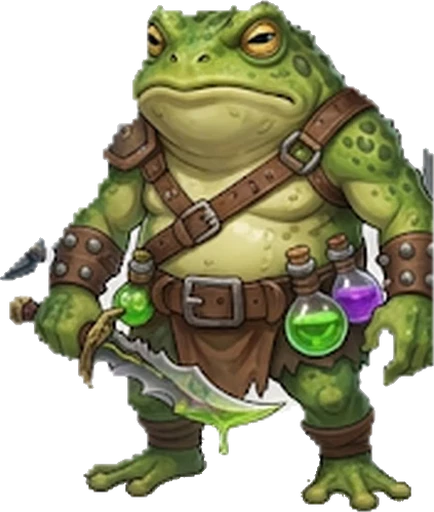
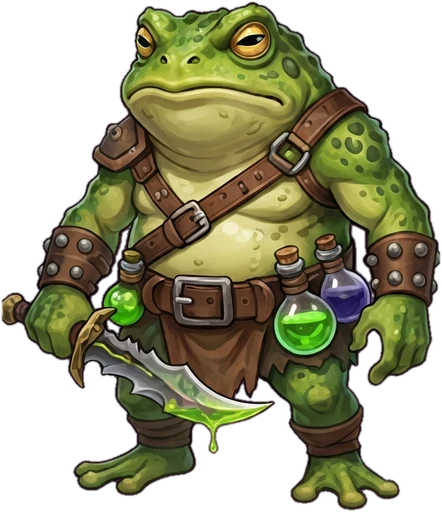
Canh 6 bo x 5 bac, ve lai 11 quai bi cat, thu linh cap 15, choang, hieu ung skill nho

diff --git a/game.js b/game.js
@@ -163,6 +163,7 @@ const SKILL_2 = { hoa: 'whirl', bang: 'guard', loi: 'whirl', doc: 'leech', tho: 
 ].forEach(([id, n, e, ps, boss], i) => MONSTERS.push({ id, n, e, ps, boss: !!boss, sk: [[SKILL_OF[e], boss ? 20 : 14 + (i % 4) * 2], [SKILL_2[e], boss ? 12 : 7]] }));
 // Hướng vẽ sẵn của từng ảnh quái (đã soát bằng mắt): các ảnh quay TRÁI -> lật để luôn nhìn về nhân vật bên trái
 const NATIVE_LEFT = new Set([
+  'dau-si-gau', 'quy-sam', 'long-nhan-bang', 'pharaoh', 'oni-samurai', 'ky-si-su-ung', 'nguoi-tuyet', // 9 quái vẽ lại cho đủ hình 2026-11-26 đều quay trái (cùng bo-xuong, bong-ma-ky-si, coc-doc, ma-vuong, nu-hoang-naga)
   'bo-xuong', 'bong-ma-ky-si', 'coc-doc', 'cua-hiep-si', 'goblin-cuop', 'khong-lo-bang',
   'ky-si-co-khi', 'ky-si-su-ung', 'lanh-chua', 'long-ky-si', 'ma-vuong', 'nam-khong-lo',
   'nguoi-cay', 'nguoi-soi', 'nguu-ma', 'nhen-yeu-tinh', 'ninja-bong-toi', 'nu-hoang-naga',
@@ -399,6 +400,7 @@ function lookFromGear(gear, banner, boss, outfit) {
   };
   L0.body = BODY_SPR[gear.armor ? Math.min(gear.armor.rar, 6) : 0];
   L0.wk = gear.weapon ? gear.weapon.wk : null; L0.wR = gear.weapon ? gear.weapon.rar : 0; L0.wFire = !!(gear.weapon && gear.weapon.perk === 'fire');
+  L0.wing = (typeof S !== 'undefined' && S && gear === S.gear && typeof curWing === 'function') ? curWing() : null; // cánh sau lưng (chỉ nhân vật của người chơi)
   L0.sh = gear.shield ? pickTier(SHIELD_SPR, Math.min(gear.shield.rar, 7)) : null; L0.sR = gear.shield ? gear.shield.rar : 0;
   L0.layered = true;
   L0.paper = { dau: gear.helmet, vai: gear.shoulder, giap: gear.armor, quan: gear.pants, gang: gear.gloves, giay: gear.boots };
@@ -578,7 +580,7 @@ function drawPaper(ctx, x, y, sc, L, facing, pose) {
     ctx.restore();
   }
   const arm = pose.arm != null ? pose.arm : 0.6;
-  const lean = arm < 0.6 ? (arm - 0.6) / 2.7 * 0.16 : (arm - 0.6) / 0.7 * 0.2;
+  const lean = arm < 0.6 ? (arm - 0.6) / 2.7 * 0.05 : (arm - 0.6) / 0.7 * 0.06; // nghiêng rất nhẹ, không đổ người về trước
   const breathe = 1 + Math.sin(t * 2.4 + x) * 0.018, hop = pose.walk ? Math.abs(Math.sin(pose.walk)) * 6 * sc : 0;
   ctx.scale(facing, 1); ctx.translate(0, -hop); ctx.rotate(lean - dead * 1.35); ctx.translate(-dead * 18, 0);
   ctx.scale(1 + (breathe - 1) * -0.5, breathe); ctx.globalAlpha = 1 - dead * 0.35;
@@ -588,6 +590,7 @@ function drawPaper(ctx, x, y, sc, L, facing, pose) {
   const [pc, px, PW, PH] = scratch('paper' + (pose.key || ''), Wc, Hc);
   for (const v of ['giay', 'quan', 'giap', 'gang', 'vai', 'dau']) { const id = lopId(v, P[v]); if (id) px.drawImage(SPR[id], 4, 4, PW - 8, PH - 8); }
   flashScratch(px, PW, PH, (pose.flash || 0) * 0.7);
+  if (L.wing && typeof drawWings === 'function' && dead < 1) drawWings(ctx, L.wing, ox + Wc * (LOPM.cx || 0.5), oy + Hc * (LOPM.figTop + 0.42 * (LOPM.feet - LOPM.figTop)), Hc, t); // cánh vẽ sau lưng, tâm cánh = giữa lưng
   if (glow) { ctx.shadowColor = glow; ctx.shadowBlur = Math.min(10, 4 + (L.tier || 0) * 1.2); }
   ctx.drawImage(pc, 0, 0, PW, PH, ox - 4 / DPR, oy - 4 / DPR, PW / DPR, PH / DPR); ctx.shadowBlur = 0;
   { // ánh hào quang phủ lên giáp khi mặc đồ từ Sử Thi (tím) trở lên; đồ thấp hơn không phát sáng
@@ -689,9 +692,10 @@ function drawStatusFx(ctx, f, x, ground, fsc, t) {
     for (let i = 0; i < 5; i++) { const k = (t * 0.7 + i / 5) % 1; ctx.globalAlpha = Math.sin(k * Math.PI); ctx.strokeStyle = '#b8ff5a'; ctx.lineWidth = 1.3; ctx.beginPath(); ctx.arc(x + Math.sin(i * 9.7) * w, ground - H * (0.4 + k * 0.6), (2 + (i % 3)) * fsc, 0, Math.PI * 2); ctx.stroke(); }
     ctx.restore();
   }
-  if (f.stun) { // sao vàng xoay quanh đầu
-    ctx.save(); const hy = ground - H * 1.08;
-    for (let i = 0; i < 4; i++) { const a = t * 4 + i * Math.PI / 2, sx = x + Math.cos(a) * w * 0.9, sy = hy + Math.sin(a) * 6 * fsc; drawStar4(ctx, sx, sy, (4 + (Math.sin(a) + 1) * 1.5) * fsc, '#ffe14a', 0.95); }
+  if (f.stun || (f.stunFx && f.stunFx > performance.now())) { // choáng: vòng sao vàng xoay quanh đầu (sao phía sau mờ và nhỏ hơn -> có chiều sâu)
+    ctx.save(); const hy = ground - H * 1.12, rx = w * 0.95, ry = 7 * fsc;
+    ctx.globalAlpha = 0.5; ctx.strokeStyle = '#ffe98a'; ctx.lineWidth = 1.2; ctx.beginPath(); ctx.ellipse(x, hy, rx, ry, 0, 0, Math.PI * 2); ctx.stroke(); ctx.globalAlpha = 1;
+    for (let i = 0; i < 5; i++) { const a = t * 4.5 + i * Math.PI * 2 / 5, z = Math.sin(a), sx = x + Math.cos(a) * rx, sy = hy + z * ry; drawStar4(ctx, sx, sy, (5 + (z + 1) * 2.2) * fsc, '#ffd23a', 0.55 + (z + 1) * 0.22); }
     ctx.restore();
   }
 }
@@ -704,12 +708,12 @@ function drawLightning(ctx, p, ground) {
   const branches = []; for (let b = 0; b < 4; b++) { const i0 = Math.floor(pts.length * (0.25 + R() * 0.5)), [sx, sy] = pts[i0], dir = R() < 0.5 ? -1 : 1, br = [[sx, sy]]; let x = sx, y = sy; for (let k = 0; k < 6; k++) { x += dir * (6 + R() * 12); y += 10 + R() * 14; br.push([x, y]); } branches.push(br); }
   const stroke = (arr, lw, c, a, blur) => { ctx.globalAlpha = a * flick * Math.min(1, life * 2.2); ctx.strokeStyle = c; ctx.lineWidth = lw; ctx.shadowColor = '#ffe14a'; ctx.shadowBlur = blur; ctx.beginPath(); arr.forEach(([x, y], i) => i ? ctx.lineTo(x, y) : ctx.moveTo(x, y)); ctx.stroke(); };
   ctx.save(); ctx.globalCompositeOperation = 'lighter'; ctx.lineJoin = 'round';
-  stroke(pts, 14, 'rgba(255,220,80,.35)', 1, 24); for (const br of branches) stroke(br, 4, '#ffd84a', 0.7, 10);
+  stroke(pts, 9, 'rgba(255,220,80,.35)', 1, 16); for (const br of branches) stroke(br, 4, '#ffd84a', 0.7, 10);
   stroke(pts, 5, '#fff1a0', 1, 14); for (const br of branches) stroke(br, 1.2, '#ffffff', 0.9, 0); stroke(pts, 2, '#ffffff', 1, 0);
   // vòng va chạm + tia bắn dưới chân
   const k = Math.min(1, age * 2.5); ctx.shadowBlur = 0; ctx.globalAlpha = (1 - k) * 0.9; ctx.strokeStyle = '#fff3a0'; ctx.lineWidth = 3;
-  ctx.beginPath(); ctx.ellipse(p.x, bot, 20 + k * 70, 6 + k * 16, 0, 0, Math.PI * 2); ctx.stroke();
-  const g = ctx.createRadialGradient(p.x, bot, 0, p.x, bot, 70); g.addColorStop(0, 'rgba(255,250,200,.9)'); g.addColorStop(1, 'rgba(255,200,60,0)'); ctx.globalAlpha = (1 - k) * flick; ctx.fillStyle = g; ctx.fillRect(p.x - 70, bot - 70, 140, 140);
+  ctx.beginPath(); ctx.ellipse(p.x, bot, 14 + k * 46, 5 + k * 11, 0, 0, Math.PI * 2); ctx.stroke();
+  const g = ctx.createRadialGradient(p.x, bot, 0, p.x, bot, 46); g.addColorStop(0, 'rgba(255,250,200,.9)'); g.addColorStop(1, 'rgba(255,200,60,0)'); ctx.globalAlpha = (1 - k) * flick; ctx.fillStyle = g; ctx.fillRect(p.x - 46, bot - 46, 92, 92);
   ctx.restore();
 }
 function drawFighter(ctx, x, y, sc, L, facing, pose) {
@@ -760,7 +764,7 @@ function drawFighter(ctx, x, y, sc, L, facing, pose) {
   }
   // tư thế: nghiêng theo pha vung đòn, thở, ngã khi thua
   const arm = pose.arm != null ? pose.arm : 0.6;
-  const lean = arm < 0.6 ? (arm - 0.6) / 2.7 * 0.16 : (arm - 0.6) / 0.7 * 0.2; // ngả sau rồi chồm tới
+  const lean = arm < 0.6 ? (arm - 0.6) / 2.7 * 0.05 : (arm - 0.6) / 0.7 * 0.06; // nghiêng rất nhẹ, không đổ người về trước
   const breathe = 1 + Math.sin(t * 2.4 + x) * 0.018;
   const hop = pose.walk ? Math.abs(Math.sin(pose.walk)) * 6 * sc : 0;
   ctx.scale(L.faceL ? -facing : facing, 1); // ảnh vẽ sẵn quay trái thì lật ngược để luôn nhìn về đối thủ
@@ -1313,7 +1317,7 @@ function doAction(actor, tgt, fast) {
   tryRevive(actor, vis);
   if (actor.hp <= 0) return;
   if (actor.passive === 'regen' && actor.hp < actor.maxHp) { const h = Math.round(actor.maxHp * 0.05); actor.hp = Math.min(actor.maxHp, actor.hp + h); if (vis) { addText(actor, '+' + h, '#5dff8a'); burst(actor, '#5dff8a', 5, 'heal'); } }
-  if (actor.stun) { actor.stun = false; if (vis) addText(actor, 'Choáng!', '#ffe14a'); return; }
+  if (actor.stun) { actor.stun = false; actor.stunFx = performance.now() + 900; if (vis) addText(actor, 'CHOÁNG! Mất lượt', '#ffe14a', true); return; } // choáng: mất 1 lượt, sao vẫn xoay thêm chút
 
   actor.swC = ELEM[actor.elem || 'vo'].c;
   // Kích hoạt chiêu (tối đa 1)
@@ -1437,7 +1441,7 @@ function drawBattle(now) {
     const dx = f.lunge * 42 * dir - dir * (f.kb || 0) * 14; // lao tới + giật lùi khi trúng
     const fsc = 1.18 * Math.pow(BH / 640, 0.7); // máy càng dài, nhân vật càng to (nhỏ lại ~10% theo yêu cầu)
     const hx = f.side < 0 ? 80 : 280, fitW = 2 * Math.min(hx, 360 - hx) + 36, fitH = ground + Math.round((BH - 640) * 0.62) - 130;
-    drawFighter(ctx, f.x + dx, ground, fsc, f.look, dir, { key: 'b' + f.side, t: now / 1000, arm: f.arm, dead: f.dead, walk: f.walk, flash: f.flash, maxW: 170, fitW, fitH });
+    drawFighter(ctx, f.x + dx, ground, fsc, f.look, dir, { key: 'b' + f.side, t: now / 1000, arm: f.arm, dead: f.dead, walk: f.walk || (f.lunge > 0 ? Math.min(1, f.lunge) * Math.PI : 0), flash: f.flash, maxW: 170, fitW, fitH }); // lao tới = bước nhún lên khỏi mặt đất
     if (f.swoosh > 0) drawSwoosh(ctx, f, dx, ground);
     if (!f.dead) drawStatusFx(ctx, f, f.x + dx, ground, fsc, now / 1000);
   }
@@ -1447,11 +1451,11 @@ function drawBattle(now) {
   for (const p of B.fx) {
     if (p.kind === 'ring') {
       const k = 1 - p.life / p.max; ctx.globalAlpha = (1 - k) * 0.9; ctx.strokeStyle = p.c; ctx.lineWidth = 6 * (1 - k) + 1;
-      ctx.shadowColor = p.c; ctx.shadowBlur = 20; ctx.beginPath(); ctx.ellipse(p.x, p.y + oy, 30 + k * 90, 12 + k * 30, 0, 0, Math.PI * 2); ctx.stroke();
+      ctx.shadowColor = p.c; ctx.shadowBlur = 20; ctx.beginPath(); ctx.ellipse(p.x, p.y + oy, 22 + k * 58, 9 + k * 20, 0, 0, Math.PI * 2); ctx.stroke();
       ctx.beginPath(); ctx.ellipse(p.x, p.y + oy - 60, 10 + k * 50, 10 + k * 50, 0, 0, Math.PI * 2); ctx.stroke(); ctx.shadowBlur = 0; ctx.globalAlpha = 1; continue;
     }
     if (p.kind === 'img') {
-      const k = 1 - p.life / p.max, im = SPR[p.id], s2 = 210 * (0.6 + k * 0.7), w2 = s2 * im.naturalWidth / im.naturalHeight;
+      const k = 1 - p.life / p.max, im = SPR[p.id], s2 = 140 * (0.6 + k * 0.6), w2 = s2 * im.naturalWidth / im.naturalHeight;
       ctx.save(); ctx.globalAlpha = k < 0.2 ? k / 0.2 : (1 - k) / 0.8; ctx.translate(p.x, p.y + oy); if (p.flip) ctx.scale(-1, 1);
       ctx.rotate((k - 0.5) * 0.4); ctx.drawImage(im, -w2 / 2, -s2 / 2, w2, s2); ctx.restore(); ctx.globalAlpha = 1; continue;
     }
@@ -1462,7 +1466,7 @@ function drawBattle(now) {
     ctx.globalAlpha = 1;
   }
   ctx.restore();
-  if (B.tint) { ctx.save(); ctx.globalCompositeOperation = 'lighter'; ctx.globalAlpha = B.tint.life / 260 * 0.25; ctx.fillStyle = B.tint.c; ctx.fillRect(0, -400, 360, 1700); ctx.restore(); }
+  if (B.tint) { ctx.save(); ctx.globalCompositeOperation = 'lighter'; ctx.globalAlpha = B.tint.life / 260 * 0.14; ctx.fillStyle = B.tint.c; ctx.fillRect(0, -400, 360, 1700); ctx.restore(); }
   for (const t of B.texts) {
     ctx.globalAlpha = Math.min(1, t.life / 300); ctx.textAlign = 'center';
     ctx.font = `900 ${t.big ? 24 : 18}px Segoe UI, Arial`; ctx.lineWidth = 4; ctx.strokeStyle = '#000';

diff --git a/features.js b/features.js
@@ -1,8 +1,8 @@
-/* Tính năng mở rộng: cấp nhân vật & kinh nghiệm, Thú Linh (5 hệ × 5 bậc, mở ở cấp 20),
+/* Tính năng mở rộng: cấp nhân vật & kinh nghiệm, Thú Linh (5 hệ × 5 bậc, mở ở cấp 15),
    Boss Hẹn Giờ, Boss Liên Server, Bảng Xếp Hạng. Nạp SAU game.js và chest.js. */
 'use strict';
 // ================== CẤP NHÂN VẬT ==================
-const LV_MAX = 100, PET_UNLOCK_LV = 20;
+const LV_MAX = 100, PET_UNLOCK_LV = 15;
 const xpNeed = (lv) => Math.round(60 * Math.pow(lv, 1.55));
 function ensureFeat() {
   if (!S) return; if (!S.lv) S.lv = 1; if (S.xp == null) S.xp = 0; if (!S.pets) S.pets = []; if (S.eggs == null) S.eggs = 0; if (S.pstone == null) S.pstone = 0; if (!S.pb) S.pb = {};
@@ -514,3 +514,72 @@ setInterval(markSeen, 30000); // ghi mốc thời gian đang chơi
 document.addEventListener('visibilitychange', () => { if (document.hidden) markSeen(); else checkOffline(); });
 addEventListener('pagehide', markSeen);
 setTimeout(checkOffline, 1200);
+
+// ================== CÁNH (mở ở cấp 10) ==================
+// 5 hệ × 5 bậc như thú linh. Cánh vẽ sau lưng nhân vật, đập nhẹ; bậc càng cao càng phát sáng.
+const WING_UNLOCK_LV = 10;
+const WING_TIER = ['Cánh Non', 'Cánh Lông Vũ', 'Cánh Khảm Kim', 'Cánh Bảo Ngọc', 'Cánh Thần Thoại'];
+const WING_BONUS = [0.02, 0.04, 0.07, 0.11, 0.16], WING_SPEED = [1, 2, 3, 5, 8], WING_W = [50, 28, 14, 6, 2];
+const WING_ELEMS = [...PET_ELEMS, 'quang']; // thêm bộ Cánh Thiên Thần (hệ Quang)
+const wingName = (w) => w.e === 'quang' ? `${WING_TIER[w.r]} Thiên Thần` : `${WING_TIER[w.r]} ${ELEM[w.e].n}`;
+for (const e of WING_ELEMS) for (let r = 0; r < 5; r++) { const id = `wing-${e}-${r}`; if (!SPR[id]) { const im = new Image(); im.src = `${id}.webp`; SPR[id] = im; } }
+function curWing() { if (!S || !S.wings || (S.lv || 1) < WING_UNLOCK_LV) return null; return S.wings.find(w => w.id === S.wing) || null; }
+// cộng chỉ số cánh vào applyBonuses
+const _applyBonusesW = applyBonuses;
+applyBonuses = function (st) { st = _applyBonusesW(st); const w = curWing(); if (w) { const b = WING_BONUS[w.r]; st.atk = Math.round(st.atk * (1 + b)); st.hp = Math.round(st.hp * (1 + b)); st.speed = (st.speed || 0) + WING_SPEED[w.r]; } return st; };
+function drawWings(ctx, w, cx, cy, Hc, t) {
+  const im = SPR[`wing-${w.e}-${w.r}`]; if (!im || !im.complete || !im.naturalWidth) return;
+  // cỡ theo diện tích (cánh dài-hẹp và cánh rộng-thấp nhìn to bằng nhau), vừa với thân nhân vật
+  const base = Hc * (0.62 + w.r * 0.05), asp = im.naturalHeight / im.naturalWidth; let ww = base * Math.sqrt(0.8 / asp), wh = ww * asp; if (wh > Hc * 0.92) { ww *= Hc * 0.92 / wh; wh = Hc * 0.92; }
+  const flap = 1 + Math.sin(t * 3.2) * 0.07, bob = Math.sin(t * 3.2 + 1) * Hc * 0.012;
+  ctx.save(); ctx.translate(cx, cy + bob); ctx.scale(flap, 1 - (flap - 1) * 0.4);
+  if (w.r >= 2) { // quầng sáng ôm đúng hình cánh, màu theo bậc
+    const S2 = imgSil(im, PET_RCOL[w.r]), pw = S2.p * wh; ctx.save(); ctx.globalCompositeOperation = 'lighter'; ctx.globalAlpha = (0.25 + (w.r - 2) * 0.18) * (0.75 + 0.25 * Math.sin(t * 3));
+    ctx.drawImage(S2.c, -ww / 2 - pw, -wh / 2 - pw, ww + pw * 2, wh + pw * 2); ctx.restore(); }
+  ctx.drawImage(im, -ww / 2, -wh / 2, ww, wh);
+  if (w.r >= 3) { ctx.save(); ctx.globalCompositeOperation = 'lighter'; for (let i = 0; i < 3 + w.r * 2; i++) { const a = t * 0.8 + i * 2.1, px = Math.cos(a) * ww * 0.42, py = Math.sin(a * 1.3) * wh * 0.35, tw = Math.max(0, Math.sin(t * 5 + i * 1.7)); if (tw > 0.2) drawStar4(ctx, px, py, 2 + w.r * 0.8, PET_RCOL[w.r], tw); } ctx.restore(); }
+  ctx.restore();
+}
+function openWingBox(free) {
+  ensureFeat(); S.wings = S.wings || [];
+  if (!free) { if (S.gems < 150) return toast('Không đủ ngọc'); S.gems -= 150; }
+  const w = { id: uid(), e: pick(WING_ELEMS), r: weighted(WING_W) };
+  const dup = S.wings.find(q => q.e === w.e && q.r === w.r), refund = (w.r + 1) * 30;
+  if (dup) S.gems += refund; else { S.wings.push(w); if (!S.wing) S.wing = w.id; }
+  save(); render(); sfx('chest');
+  modal(`<h3>🪽 Mở Hộp Cánh</h3><div class="wing-show"><canvas id="wingCv" width="300" height="200"></canvas></div>
+    <div class="rr" style="text-align:center;font-weight:800;color:${PET_RCOL[w.r]}">${PET_RAR[w.r]}</div><div style="text-align:center;font-size:18px;font-weight:800">${wingName(w)}</div>
+    ${dup ? `<p class="hint" style="text-align:center">Đã có cánh này → hoàn 💎${refund}</p>` : ''}
+    <div class="btns"><button class="btn ok" id="bOk">Tuyệt vời!</button></div>`, root => {
+    bindBtns(root, { '#bOk': () => wingModal() });
+    const cv = root.querySelector('#wingCv'), t0 = performance.now();
+    const loop = (now) => { if (!document.body.contains(cv)) return; const x = hd(cv, 300, 200); x.clearRect(0, 0, 300, 200); drawWings(x, w, 150, 100, 170, (now - t0) / 1000); requestAnimationFrame(loop); }; requestAnimationFrame(loop);
+  });
+}
+function wingModal() {
+  ensureFeat(); S.wings = S.wings || [];
+  if (S.lv < WING_UNLOCK_LV) return modal(`<h3>🪽 Cánh</h3><p style="text-align:center;font-size:14px">Đạt <b>cấp ${WING_UNLOCK_LV}</b> để mở ô Cánh.<br>Hiện tại: cấp ${S.lv}.</p><p class="hint">Cánh mọc sau lưng hiệp sĩ, tăng công, máu và tốc độ. ${WING_ELEMS.length} bộ (5 hệ + Thiên Thần), mỗi bộ 5 bậc; bậc cao phát sáng.</p><div class="btns"><button class="btn" id="bC">Đóng</button></div>`, r => bindBtns(r, { '#bC': closeModal }));
+  const cur = curWing();
+  let html = `<h3>🪽 Cánh</h3>${cur ? `<p class="hint" style="text-align:center">Đang mang: <b style="color:${PET_RCOL[cur.r]}">${wingName(cur)}</b> · +${Math.round(WING_BONUS[cur.r] * 100)}% công/máu · +${WING_SPEED[cur.r]} tốc</p>` : '<p class="hint" style="text-align:center">Chạm một đôi cánh đã có để mang.</p>'}
+    <div class="btns" style="margin-top:0"><button class="btn ok" id="bBox" ${S.gems >= 150 ? '' : 'disabled'}>Mở Hộp Cánh 💎150</button>${cur ? '<button class="btn" id="bOff">Tháo cánh</button>' : ''}</div><div class="petgrid wings">`;
+  for (const e of WING_ELEMS) for (let r = 0; r < 5; r++) { const own = S.wings.find(w => w.e === e && w.r === r), on = own && cur && own.id === cur.id;
+    html += `<div class="pet ${own ? '' : 'lock'} ${on ? 'on' : ''}" data-id="${own ? own.id : ''}" style="--pc:${PET_RCOL[r]}"><canvas class="wcv" data-e="${e}" data-r="${r}" width="90" height="70"></canvas><b>${wingName({ e, r })}</b><small class="t${[0, 2, 3, 4, 6][r]}">${PET_RAR[r]}</small></div>`; }
+  html += `</div><div class="btns"><button class="btn" id="bC">Đóng</button></div>`;
+  modal(html, root => {
+    bindBtns(root, { '#bC': closeModal, '#bBox': () => openWingBox(false), '#bOff': () => { S.wing = null; save(); render(); wingModal(); } });
+    root.querySelectorAll('.pet[data-id]').forEach(el => { if (el.dataset.id) el.onclick = () => { S.wing = el.dataset.id; save(); sfx('tap'); render(); wingModal(); }; });
+    const t0 = performance.now(), cvs = [...root.querySelectorAll('.wcv')];
+    const loop = (now) => { if (!cvs.length || !document.body.contains(cvs[0])) return; for (const cv of cvs) { const x = hd(cv, 90, 70); x.clearRect(0, 0, 90, 70); drawWings(x, { e: cv.dataset.e, r: +cv.dataset.r }, 45, 35, 62, (now - t0) / 1000 + (+cv.dataset.r)); } requestAnimationFrame(loop); };
+    requestAnimationFrame(loop);
+  });
+}
+// nút Cánh ở màn Trang bị + thưởng hộp cánh khi lên cấp 10, 20, 30…
+(function hookWings() {
+  const gb = document.createElement('button'); gb.className = 'mini'; gb.textContent = '🪽 Cánh'; gb.style.cssText = 'margin-left:4px;background:linear-gradient(#8a7aff,#3a2a9a)';
+  const ref = $('btnPet2') || $('btnOutfit'); ref.parentNode.insertBefore(gb, ref.nextSibling); gb.onclick = () => { sfx('tap'); wingModal(); };
+  const _gx = gainXP; gainXP = function (n) { const before = S.lv || 1; _gx(n); let k = 0; for (let L = before + 1; L <= S.lv; L++) if (L % 10 === 0) k++; if (k) setTimeout(() => { for (let i = 0; i < k; i++) openWingBox(true); }, 1800); };
+  GIFT_CODES.CANHTHAN = { gems: 300, n: 'Quà cánh thần' };
+  const _rs2 = renderShop; renderShop = function () { _rs2(); const shop = $('shop'); if (!shop || shop.querySelector('#bWingShop')) return; const d = document.createElement('div'); d.className = 'chest';
+    d.innerHTML = `<span class="big">🪽</span><b>Hộp Cánh</b><small>Ra cánh 6 bộ (có Thiên Thần) · Thần Thoại 2% · cần cấp ${WING_UNLOCK_LV}</small><button id="bWingShop" ${S.gems >= 150 && (S.lv || 1) >= WING_UNLOCK_LV ? '' : 'disabled'}>💎150</button>`;
+    shop.appendChild(d); d.querySelector('button').onclick = () => openWingBox(false); };
+})();

diff --git a/index.html b/index.html
@@ -11,7 +11,7 @@
 <meta name="mobile-web-app-capable" content="yes">
 <meta name="apple-mobile-web-app-status-bar-style" content="black-translucent">
 <meta name="apple-mobile-web-app-title" content="Hiệp Sĩ">
-<link rel="stylesheet" href="style.css?v=58">
+<link rel="stylesheet" href="style.css?v=66">
 </head>
 <body>
 <div id="app">
@@ -80,12 +80,12 @@
   <div id="modal" class="overlay hidden"><div class="modal-box" id="modalBox"></div></div>
   <div id="toast"></div>
 </div>
-<script src="anchors.js?v=58"></script>
-<script src="lop.js?v=58"></script>
-<script src="zones.js?v=58"></script>
-<script src="game.js?v=58"></script>
-<script src="chest.js?v=58"></script>
-<script src="features.js?v=58"></script>
+<script src="anchors.js?v=66"></script>
+<script src="lop.js?v=66"></script>
+<script src="zones.js?v=66"></script>
+<script src="game.js?v=66"></script>
+<script src="chest.js?v=66"></script>
+<script src="features.js?v=66"></script>
 <script>if ('serviceWorker' in navigator && location.protocol === 'https:') navigator.serviceWorker.register('sw.js');</script>
 </body>
 </html>

diff --git a/style.css b/style.css
@@ -280,3 +280,6 @@ input.name{width:100%;padding:10px;border-radius:8px;border:1px solid var(--line
 .toggle i::after{content:'';position:absolute;top:2px;left:2px;width:16px;height:16px;border-radius:50%;background:#fff;transition:.2s}
 .toggle.on i{background:#3fc66a}.toggle.on i::after{left:16px}
 .copyright{text-align:center;font-size:11px;color:#a89cc8;margin:14px 0 4px;line-height:1.5}
+
+.petgrid.wings .pet canvas{width:100%;height:auto}
+.wing-show{display:flex;justify-content:center}.wing-show canvas{width:100%;max-width:300px;height:auto}
